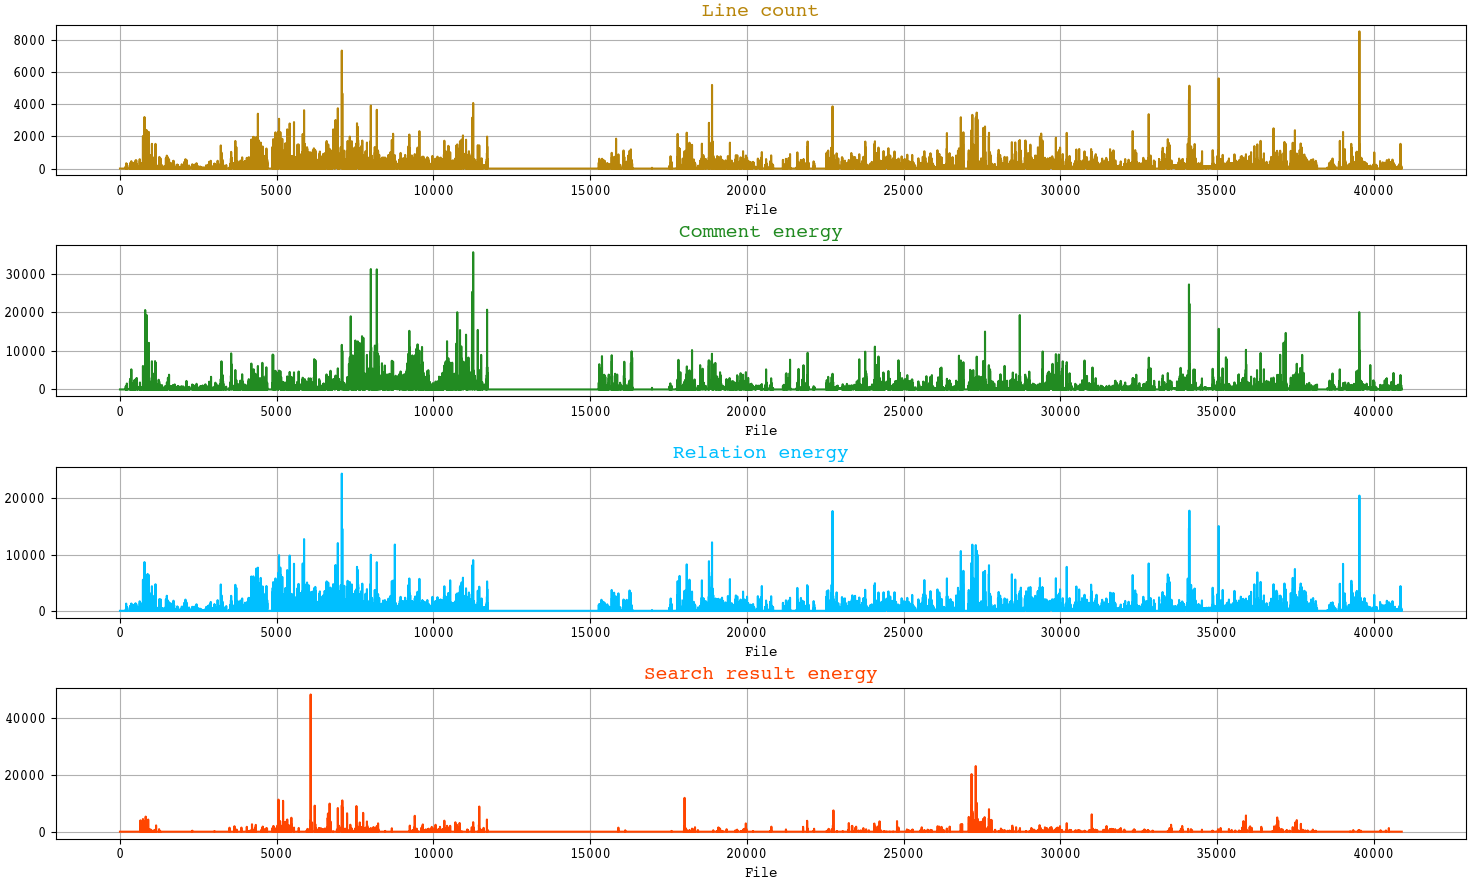
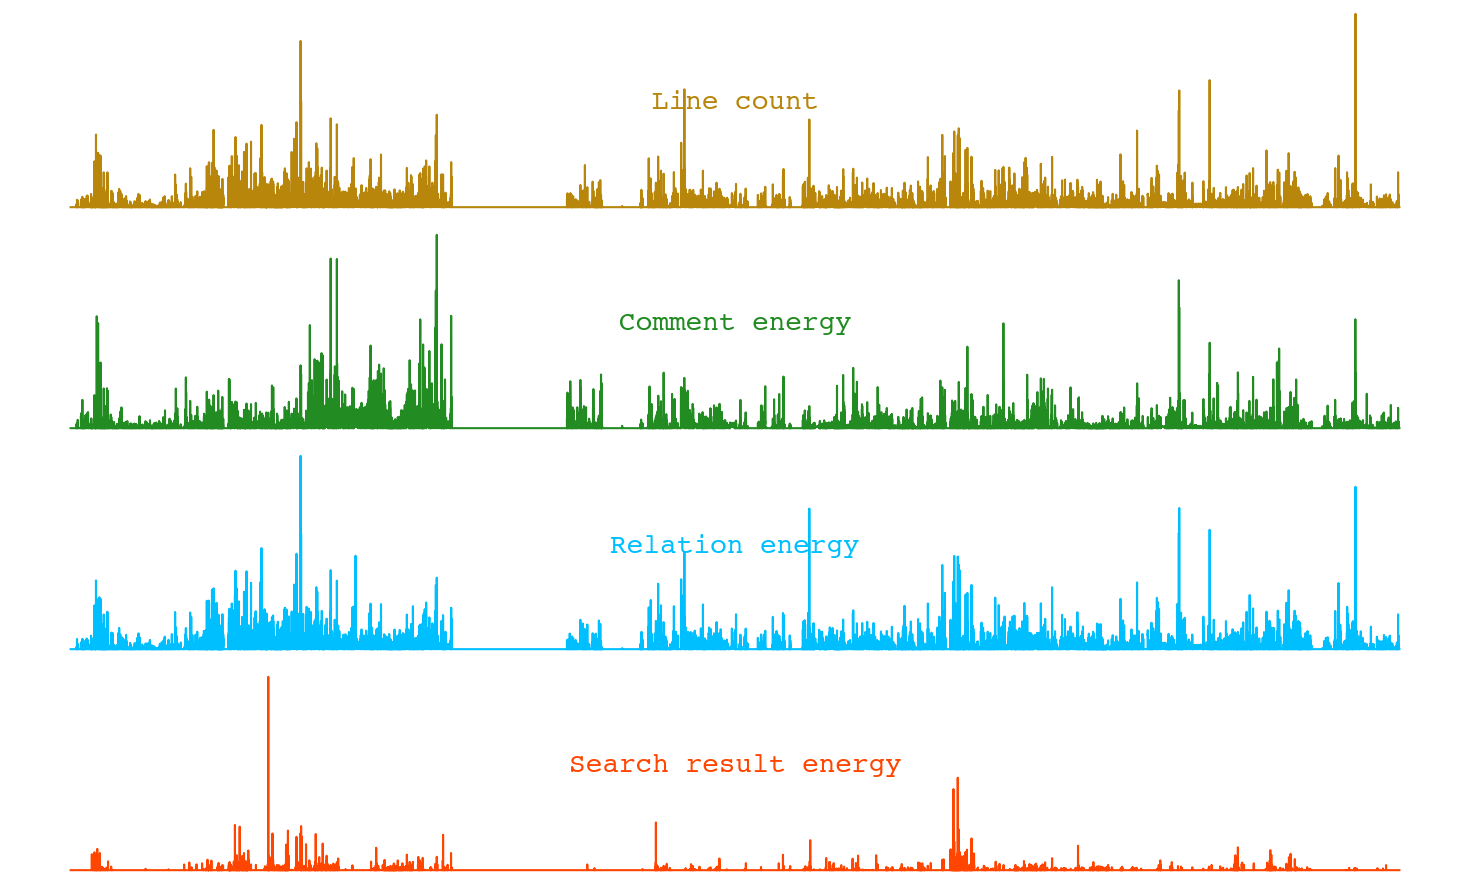
refactor Python plot script

diff --git a/SourceCodeComplexity/plotfilecomplexity.py b/SourceCodeComplexity/plotfilecomplexity.py
@@ -1,31 +1,21 @@
 import matplotlib.pyplot as plt
 import numpy as np
 
+plt.rcParams['font.family'] = 'Courier'
 logpath = '/Users/vadimbaitoiu/Downloads/complexitydata.csv'
 complexityMap = np.loadtxt(logpath, comments="#", unpack=False)
 complexityMap = np.transpose(complexityMap)
 complexityMax, fileIndexMax = complexityMap.shape
 x = np.arange(0, fileIndexMax, 1)
-fig, axs = plt.subplots(4, 1, layout='constrained')
-axs[0].plot(x, complexityMap[0, :], color='dodgerblue')
-axs[0].set_xlabel('File')
-axs[0].set_ylabel('Line count')
-axs[0].grid(True)
-axs[1].plot(x, complexityMap[1, :], color='lime')
-axs[1].set_xlabel('File')
-axs[1].set_ylabel('Comment energy')
-axs[1].grid(True)
-axs[2].plot(x, complexityMap[2, :], color='cyan')
-axs[2].set_xlabel('File')
-axs[2].set_ylabel('Relation energy')
-axs[2].grid(True)
-axs[3].plot(x, complexityMap[3, :], color='tomato')
-axs[3].set_xlabel('File')
-axs[3].set_ylabel('Search result energy')
-axs[3].grid(True)
 
-'''
-cxy, f = axs[1].cohere(s1, s2, 256, 1. / dt)
-axs[1].set_ylabel('Coherence')
-'''
+complexityName = ['Line count', 'Comment energy', 'Relation energy', 'Search result energy']
+complexityColor = ['darkgoldenrod', 'forestgreen', 'deepskyblue', 'orangered']
+fig, axs = plt.subplots(len(complexityName), 1, sharex=True, layout='constrained')
+
+for i in range(len(complexityName)):
+    axs[i].plot(x, complexityMap[i, :], color=complexityColor[i])
+    axs[i].set_title(complexityName[i], fontsize=20, color=complexityColor[i], y=0.55, va='top')
+    axs[i].grid(False)
+    axs[i].axis(False)
+
 plt.show()
